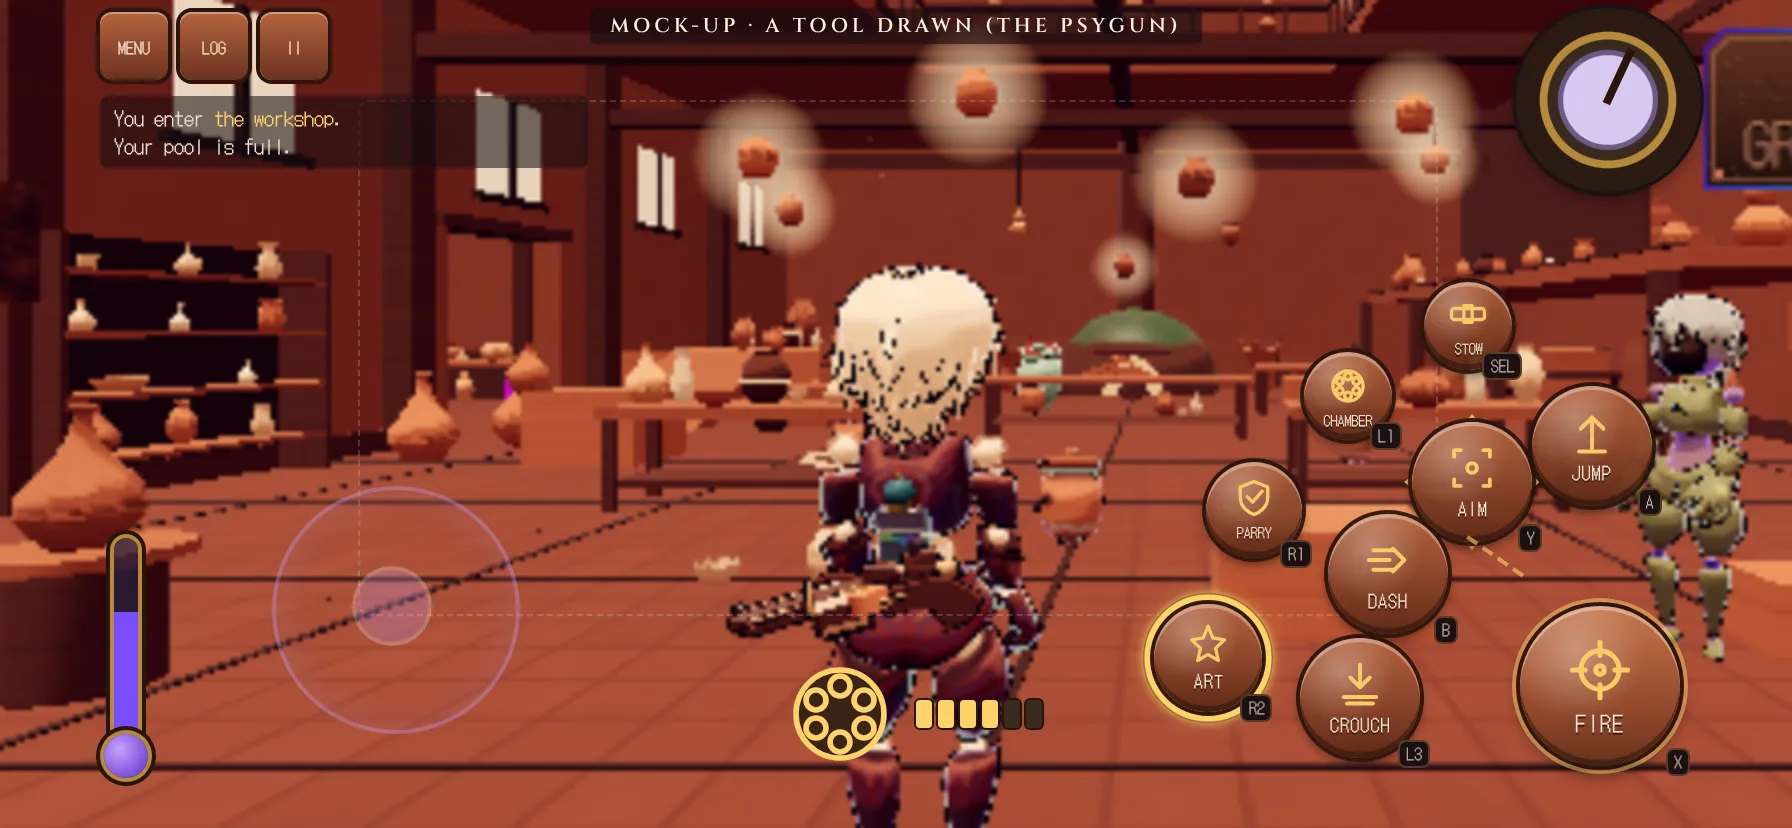
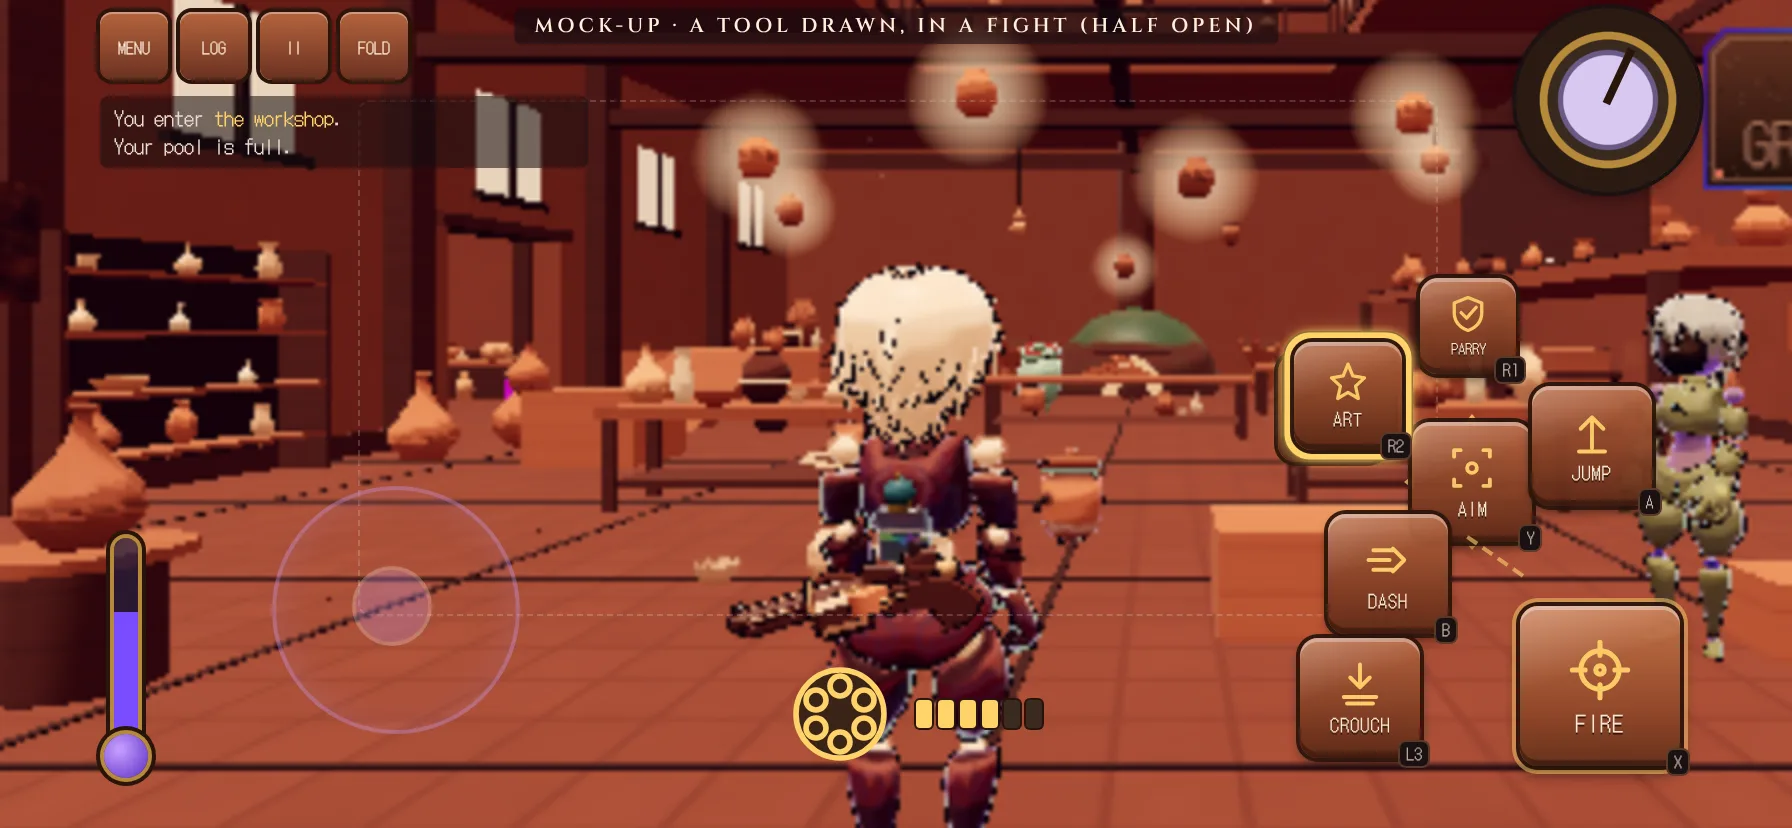
Touch mock-ups: square tiles, the outer ring reversed and folding (folded, half open, open), and the arc's fold as a strip of frames
Claude-Session: https://claude.ai/code/session_01XGT2M7FzmmweYqpDur2os6

diff --git a/docs/handoffs/dovina/2026-11-01-from-calissa-touch-arc.md b/docs/handoffs/dovina/2026-11-01-from-calissa-touch-arc.md
@@ -55,3 +55,17 @@ I'll dress both once your round is on main. `hearth.js` and `kitchen.js` aren't 
 
 Done, on my branch (5746def): `game.dropSprites.texture(cat)`, all 23 kinds, 48 x 48 and nearest-filtered. I haven't done the
 optional glint and take burst yet, because their events aren't on main.
+
+## The fold (South's ruling 4): redrawn
+
+The mock-ups now use square tiles (glazed clay, 9 px corners) and the reversed outer order (E 110°, F 131°, PICK 153°, BELT 176°).
+- **Their default states:** on foot is folded; a tool drawn in a fight and the Arena are half open.
+- **`fold-strip.webp`:** the right half of the screen in five frames:
+  1. folded: one stack at 110°, the other tiles' edges stepping out along the arc behind E;
+  2. opening: PICK mid-flip, the ribbons crossing from F;
+  3. half open: PICK and BELT stacked on F's back;
+  4. open;
+  5. the top bar's FOLD: everything in one stack at A, the FOLD tile lit.
+- **The ribbons (my call, the same as yours):** they show only while a tile flips. They are two crossed ribbons, vermilion and gold,
+  from the landed tile's edge to the flipping one. At rest the stack's stepped edges say how many tiles are folded in it. When F is
+  in the stack and full, the stack's edge glows gold.
